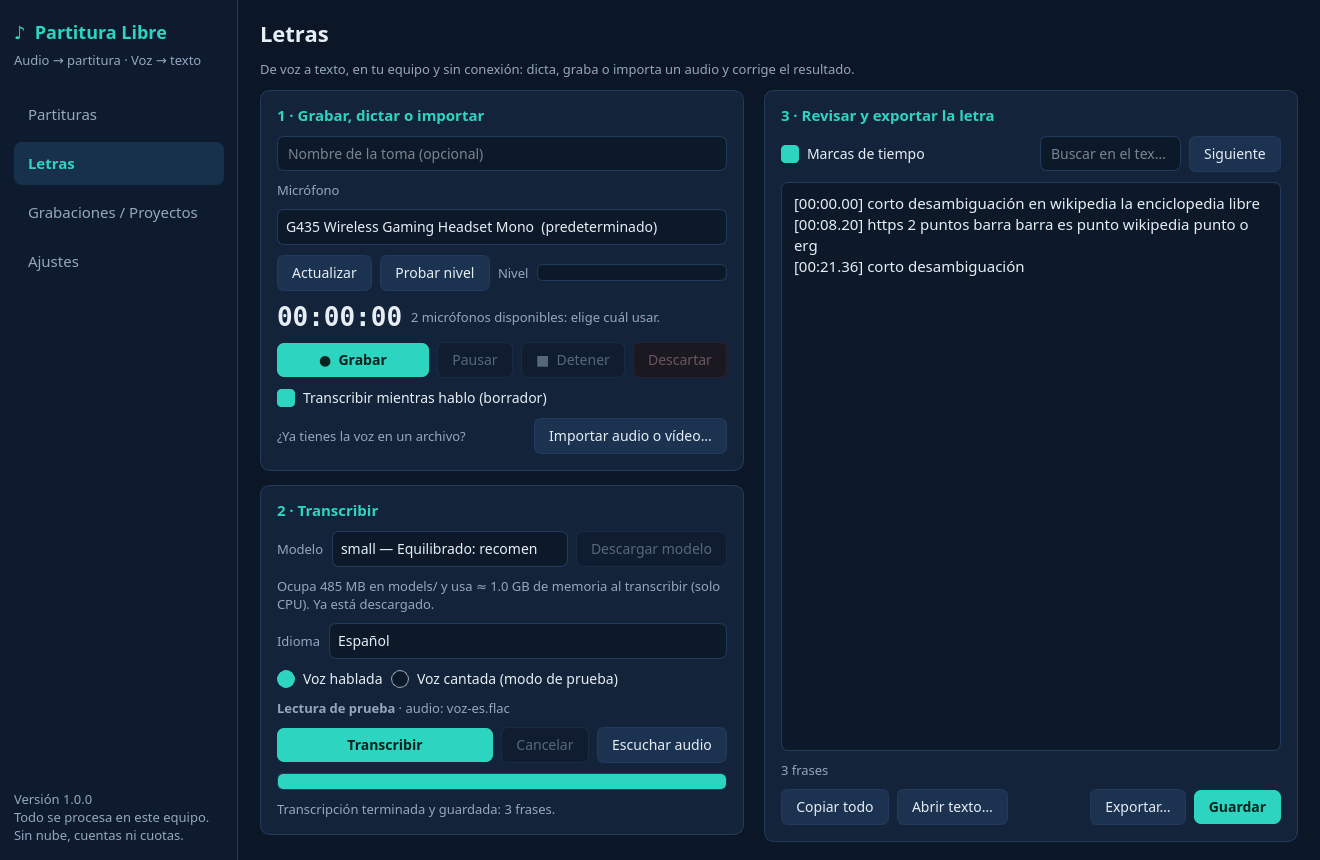
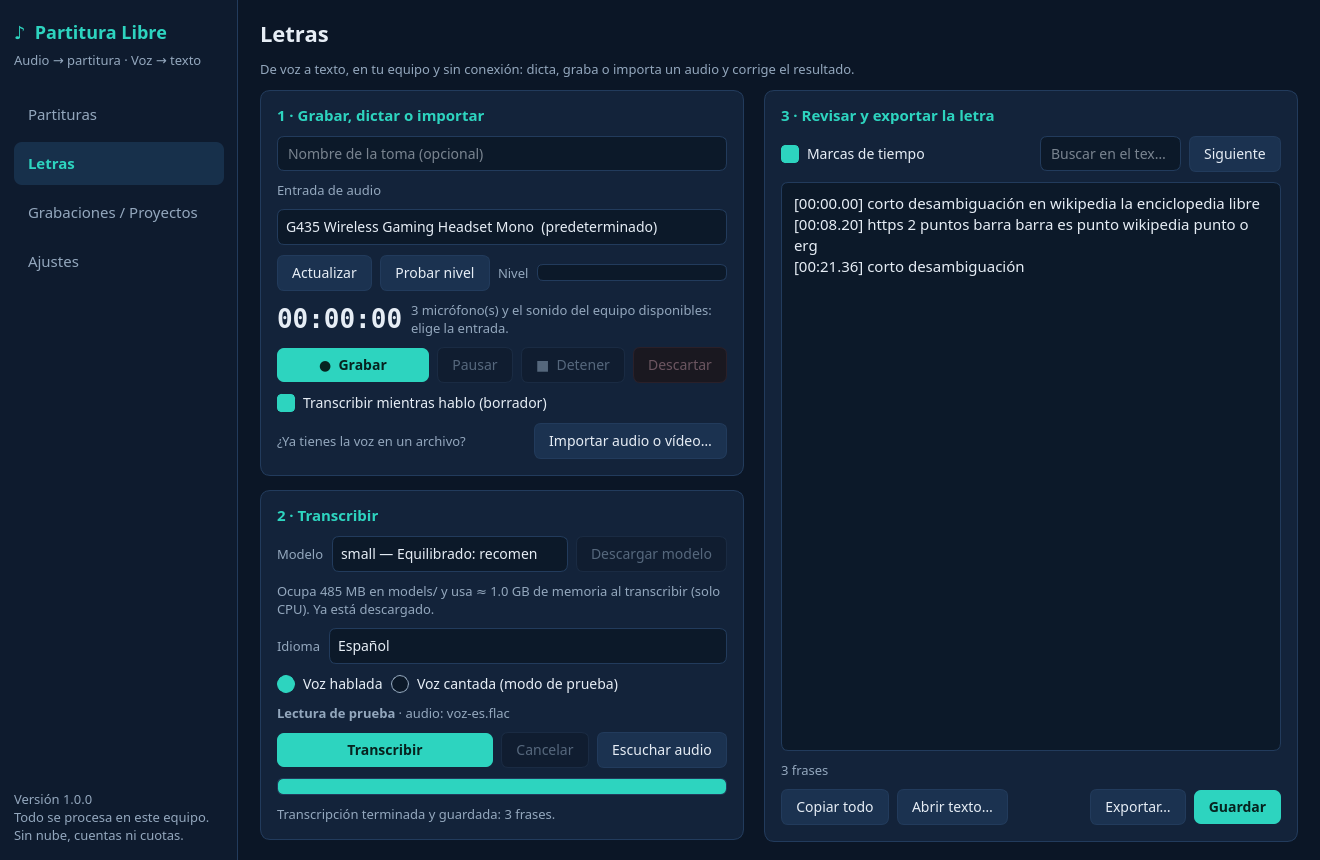
Captura directa del sonido del equipo y transcripción vacía explicada
Las entradas «Sonido del equipo» graban lo que suena por una salida (música de
otra aplicación) sin pasar por altavoces y micrófono. Aviso de nivel muy bajo,
diálogo con pasos cuando no se reconoce texto y modo cantado que muestra lo
dudoso sin mostrar el relleno inventado por el modelo.

diff --git a/app/partitura_libre/audio.py b/app/partitura_libre/audio.py
@@ -35,24 +35,36 @@ def sd():
             f"Mientras tanto puedes importar archivos de audio. Detalle: {e}") from e
 
 
+SISTEMA = "Sonido del equipo · "   # prefijo de las entradas que graban lo que suena por una salida
+
+
 def fuentes_del_servidor():
-    """Micrófonos que publica el servidor de sonido de Linux (PipeWire o PulseAudio), con el nombre
-    que ve el usuario: [{'nombre', 'fuente', 'predeterminado'}]. Vacío si no hay servidor o en Windows.
-    Solo consulta con `pactl`, que ya forma parte del sistema; no cambia nada en él."""
+    """Entradas que publica el servidor de sonido de Linux (PipeWire o PulseAudio), con el nombre que ve
+    el usuario: [{'nombre', 'fuente', 'predeterminado', 'sistema'}], los micrófonos primero. Las de
+    `sistema` graban directamente lo que suena por una salida (música de otra aplicación, un vídeo…).
+    Vacío si no hay servidor o en Windows. Solo consulta con `pactl`, que ya es parte del sistema."""
     if rutas.WINDOWS or not shutil.which("pactl"):
         return []
     try:
         entorno = {**os.environ, "LC_ALL": "C.UTF-8"}
         texto = subprocess.run(["pactl", "list", "sources"], capture_output=True, text=True, timeout=5, env=entorno).stdout
         pred = subprocess.run(["pactl", "get-default-source"], capture_output=True, text=True, timeout=5, env=entorno).stdout.strip()
+        salida = subprocess.run(["pactl", "get-default-sink"], capture_output=True, text=True, timeout=5, env=entorno).stdout.strip()
     except (OSError, subprocess.SubprocessError):
         return []
     fuentes = []
     for bloque in texto.split("\n\n"):
         campos = dict(l.strip().split(": ", 1) for l in bloque.splitlines() if ": " in l and l.startswith("\t") and not l.startswith("\t\t"))
-        if campos.get("Name") and campos.get("Monitor of Sink", "n/a") == "n/a":  # los «monitor» no son micrófonos
-            fuentes.append({"nombre": campos.get("Description") or campos["Name"], "fuente": campos["Name"],
-                            "predeterminado": campos["Name"] == pred})
+        if not campos.get("Name"):
+            continue
+        de_salida = campos.get("Monitor of Sink", "n/a")
+        nombre = campos.get("Description") or campos["Name"]
+        if de_salida == "n/a":
+            fuentes.append({"nombre": nombre, "fuente": campos["Name"], "predeterminado": campos["Name"] == pred, "sistema": False})
+        else:
+            fuentes.append({"nombre": SISTEMA + nombre.removeprefix("Monitor of ") + (" (salida en uso)" if de_salida == salida else ""),
+                            "fuente": campos["Name"], "predeterminado": False, "sistema": True, "_orden": de_salida != salida})
+    fuentes.sort(key=lambda f: (f["sistema"], f.pop("_orden", False)))
     return fuentes
 
 
@@ -67,10 +79,10 @@ def microfonos(refrescar=False):
     fuentes = fuentes_del_servidor() if puente is not None else []
     if fuentes:
         sr = int(s.query_devices(puente)["default_samplerate"])
-        return sorted(({"indice": puente, "sr": sr, **f} for f in fuentes), key=lambda d: not d["predeterminado"])
+        return sorted(({"indice": puente, "sr": sr, **f} for f in fuentes), key=lambda d: (d["sistema"], not d["predeterminado"]))
     pred = s.default.device[0]
     api = s.query_devices(pred)["hostapi"] if pred is not None and pred >= 0 else 0
-    lista = [{"indice": i, "nombre": d["name"], "sr": int(d["default_samplerate"]), "predeterminado": i == pred, "fuente": None}
+    lista = [{"indice": i, "nombre": d["name"], "sr": int(d["default_samplerate"]), "predeterminado": i == pred, "fuente": None, "sistema": False}
              for i, d in enumerate(s.query_devices()) if d["max_input_channels"] > 0 and d["hostapi"] == api]
     return sorted(lista, key=lambda d: not d["predeterminado"])
 
@@ -150,6 +162,11 @@ class Grabadora:
         if self.error:
             a.append(self.error)
         return a
+
+    @property
+    def floja(self):
+        """Señal muy débil: suficiente para oír algo, mala para reconocer palabras o notas."""
+        return self.frames > self.sr and 0.001 <= self.pico < 0.1
 
     @property
     def muda(self):

diff --git a/app/partitura_libre/ui/captura.py b/app/partitura_libre/ui/captura.py
@@ -43,7 +43,7 @@ class PanelCaptura(QWidget):
         v = QVBoxLayout(self)
         v.setContentsMargins(0, 0, 0, 0)
         v.setSpacing(10)
-        v.addWidget(tema.etiqueta("Micrófono", "tenue"))
+        v.addWidget(tema.etiqueta("Entrada de audio", "tenue"))
         v.addWidget(self.micro)
         v.addLayout(tema.fila(self.b_actualizar, self.b_probar, tema.etiqueta("Nivel", "tenue", False), self.nivel, estirar=self.nivel))
         v.addLayout(tema.fila(self.reloj, self.texto, estirar=self.texto))
@@ -93,7 +93,9 @@ class PanelCaptura(QWidget):
         else:
             guardado = self.micro.findText(config.cargar()["microfono"], Qt.MatchStartsWith) if config.cargar()["microfono"] else -1
             self.micro.setCurrentIndex(max(guardado, 0))
-            self._decir("Listo para grabar." if len(micros) == 1 else f"{len(micros)} micrófonos disponibles: elige cuál usar.")
+            n = sum(not m["sistema"] for m in micros)
+            self._decir("Listo para grabar." if len(micros) == 1 else f"{n} micrófono(s)"
+                        + (" y el sonido del equipo" if n < len(micros) else "") + " disponibles: elige la entrada.")
         self._botones()
 
     def _micro(self):
@@ -189,6 +191,12 @@ class PanelCaptura(QWidget):
             tema.dialogo(self, "La toma está en silencio", "Se ha grabado, pero el micrófono no envió ninguna señal.\n\n"
                          "Comprueba que no esté silenciado o apagado y que has elegido la entrada correcta; usa «Probar nivel» "
                          "y mira si la barra se mueve al hablar. En el control de sonido del sistema, sube el volumen de entrada.", tipo="aviso")
+        elif g.floja:
+            self._decir(f"Toma guardada, pero con un nivel muy bajo (pico del {g.pico * 100:.0f} %).", "aviso")
+            tema.dialogo(self, "Nivel de grabación muy bajo", f"La toma se ha guardado, pero el sonido llegó muy flojo (pico del {g.pico * 100:.0f} %) "
+                         "y el reconocimiento puede fallar o salir vacío.\n\n• Acerca el micrófono a la fuente o sube el volumen de entrada del sistema.\n"
+                         "• Si lo que quieres transcribir suena en este equipo (Spotify, un vídeo…), no lo grabes con el micrófono: elige en "
+                         "«Entrada de audio» una opción «Sonido del equipo» y se capturará directamente, sin ruido ambiente.", tipo="aviso")
         else:
             self._decir(f"Toma guardada ({g.segundos:.1f} s) en {carpeta.name}.")
         self.terminada.emit(carpeta)

diff --git a/app/partitura_libre/ui/letras.py b/app/partitura_libre/ui/letras.py
@@ -64,7 +64,8 @@ class PaginaLetras(QWidget):
         self.hablada.setChecked(True)
         self.e_cantada = tema.etiqueta(
             "Voz cantada: la música, los coros y los instrumentos confunden al modelo. Los versos poco fiables se "
-            "marcan con ⚠ para que los revises; no hay separación de voz e instrumentos. Mejor con voz sola.", "aviso")
+            "marcan con ⚠ para que los revises; no hay separación de voz e instrumentos. Mejor con voz sola. Si la canción suena "
+            "en este equipo, elige «Sonido del equipo» como entrada en vez del micrófono.", "aviso")
         self.e_toma = tema.etiqueta("Ninguna toma abierta.", "tenue")
         self.b_transcribir = tema.boton("Transcribir", self.transcribir, "primario")
         self.b_cancelar = tema.boton("Cancelar", self.cancelar)
@@ -309,6 +310,13 @@ class PaginaLetras(QWidget):
             self._poner(self._nuevos)
             if not self._nuevos:
                 self.e_estado.setText("No se reconoció ninguna palabra en el audio. No se ha inventado texto.")
+                tema.reclasificar(self.e_estado, "aviso")
+                tema.dialogo(self, "No se reconoció ninguna palabra", "El motor no encontró voz inteligible en esta toma y no se ha inventado texto.\n\n"
+                             "• Si es una canción, marca «Voz cantada (modo de prueba)» y vuelve a pulsar «Transcribir».\n"
+                             "• Si el sonido venía de este equipo (Spotify, un vídeo…), grábalo eligiendo «Sonido del equipo» en "
+                             "«Entrada de audio»: por el micrófono llega flojo y con ruido.\n"
+                             "• Comprueba el idioma elegido y, si puedes, usa un modelo más preciso (medium).\n\n"
+                             "El audio original se conserva: usa «Escuchar audio» para comprobar cómo quedó.", tipo="aviso")
             else:
                 self._guardar_en(self._carpeta_final, nueva=True)
                 dud = sum(s["dudoso"] for s in self._nuevos)

diff --git a/app/partitura_libre/workers/voz.py b/app/partitura_libre/workers/voz.py
@@ -21,13 +21,15 @@ def main():
         o = json.loads(linea)
         try:
             cantada, desfase = o.get("cantada", False), o.get("desfase", 0.0)
-            # Voz cantada: sin filtro de silencios (la música lo confunde) y sin arrastrar
-            # el texto anterior, para que no «rellene» versos que no se entienden.
+            # Voz cantada: sin filtro de silencios (la música lo confunde), sin arrastrar el texto
+            # anterior (para que no «rellene» versos) y sin descartar de antemano los tramos que el
+            # modelo cree sin voz: se muestran marcados como dudosos, salvo los que son puro relleno.
             segs, info = modelo.transcribe(o["audio"], language=o.get("idioma") or None, beam_size=5,
-                                           vad_filter=not cantada, condition_on_previous_text=not cantada)
+                                           vad_filter=not cantada, condition_on_previous_text=not cantada,
+                                           **({"no_speech_threshold": None} if cantada else {}))
             emitir("idioma", id=o["id"], idioma=info.language, prob=round(info.language_probability, 3), dur=info.duration)
             for s in segs:
-                if s.text.strip():
+                if s.text.strip() and not (cantada and letras.es_relleno(s.text, s.avg_logprob)):
                     emitir("segmento", id=o["id"], inicio=round(s.start + desfase, 2), fin=round(s.end + desfase, 2),
                            texto=s.text.strip(), v=round(min(1.0, s.end / max(info.duration, 0.01)), 3),
                            dudoso=cantada and s.avg_logprob < -0.5 or letras.es_dudoso(s.avg_logprob, s.no_speech_prob, s.compression_ratio))

diff --git a/tests/test_exportar.py b/tests/test_exportar.py
@@ -67,6 +67,13 @@ class TextoEditable(unittest.TestCase):
         self.assertIsNone(segs[3]["inicio"])
         self.assertEqual(len(exportar.con_tiempos(segs)), 3)
 
+    def test_relleno_inventado_no_se_muestra_pero_un_verso_dudoso_si(self):
+        # Salidas reales del modelo ante música floja grabada por micrófono:
+        for texto, logprob in (("y", -2.01), ("¡Suscríbete!", -0.99), ("¡Suscríbete y dale like a este vídeo!", -1.38), ("Música", -1.44)):
+            self.assertTrue(letras.es_relleno(texto, logprob), texto)
+        self.assertFalse(letras.es_relleno("Y empezamos a tocar", -0.70))   # se muestra, marcado con ⚠
+        self.assertTrue(letras.es_dudoso(-0.70, 0.82, 1.2))
+
     def test_criterio_de_duda(self):
         self.assertFalse(letras.es_dudoso(-0.2, 0.05, 1.4))
         self.assertTrue(letras.es_dudoso(-1.3, 0.05, 1.4))   # el modelo no está seguro

diff --git a/app/partitura_libre/letras.py b/app/partitura_libre/letras.py
@@ -87,6 +87,16 @@ def de_texto(texto, previos=()):
     return exportar.completar_tiempos(segs)
 
 
+MULETILLAS = ("suscríbete", "subtítulos", "gracias por ver", "amara.org", "thanks for watching", "subscribe")
+
+
+def es_relleno(texto, logprob):
+    """Texto que el modelo inventa cuando no entiende nada (modo voz cantada): casi sin probabilidad,
+    una sola sílaba, o las coletillas de vídeos con las que fue entrenado. Eso no se muestra."""
+    t = texto.strip().lower()
+    return logprob < -1.2 or len(t.strip(" .,¡!¿?…")) < 3 or any(m in t for m in MULETILLAS)
+
+
 def es_dudoso(logprob, sin_voz, compresion):
     """Criterio para pedir revisión humana de un segmento."""
     return logprob < -0.8 or sin_voz > 0.5 or compresion > 2.4

diff --git a/tests/test_audio.py b/tests/test_audio.py
@@ -180,7 +180,7 @@ class Dispositivos(unittest.TestCase):
         except audio.ErrorAudio as e:
             self.skipTest(f"sin sistema de audio: {e}")
         for m in micros:
-            self.assertEqual(set(m), {"indice", "nombre", "sr", "predeterminado", "fuente"})
+            self.assertEqual(set(m), {"indice", "nombre", "sr", "predeterminado", "fuente", "sistema"})
         self.assertLessEqual(sum(m["predeterminado"] for m in micros), 1)
 
 

diff --git a/docs/INFORME-PRUEBAS.md b/docs/INFORME-PRUEBAS.md
@@ -6,7 +6,7 @@ Equipo de pruebas: Debian 13 (trixie) x86_64 real, sesión Wayland con PipeWire,
 
 Cada prueba se clasifica como **superada**, **fallida** o **no ejecutable aquí**.
 
-## 1. Pruebas automatizadas — superadas (66 de 66, ninguna omitida)
+## 1. Pruebas automatizadas — superadas (67 de 67, ninguna omitida)
 
 Se ejecutan con `./herramientas/probar.sh`, siempre con el Python del paquete. Usan los motores reales, no simulacros.
 
@@ -16,7 +16,7 @@ Se ejecutan con `./herramientas/probar.sh`, siempre con el Python del paquete. U
 | `test_audio` | 11 | Señal sintética guardada idéntica muestra a muestra; pausa; cola saturada y desbordamiento notificados y toma marcada incompleta; disco lleno conserva lo grabado; WAV válido antes de cerrarse; cancelar borra; segmentos en vivo contiguos; **sesión simulada de 40 min** sin pérdidas |
 | `test_partitura_flujo` | 12 | **Pentagrama:** posición de las notas en clave de Sol, Fa y Do (3.ª y 4.ª), figuras, acordes; la clave elegida y los nombres Do-Re-Mi llegan al MusicXML. Además: WAV sintético (escala de Do) → notas exactas → MIDI → MusicXML; corrección manual crea versión nueva sin tocar la anterior; nota que cruza trozos no se parte; silencio no inventa notas; archivo ilegible da error explicado; cancelación sin restos |
 | `test_letras_flujo` | 6 | Audio libre en español: idioma detectado, palabras esperadas, tiempos crecientes, exportación y reimportación; idioma manual; error sin tumbar el motor; el modo «voz cantada» no da por bueno texto en música sin voz |
-| `test_exportar` | 9 | SRT, VTT y LRC exactos; ida y vuelta; texto editado conserva tiempos; una línea nueva no recibe un tiempo inventado |
+| `test_exportar` | 10 | SRT, VTT y LRC exactos; ida y vuelta; texto editado conserva tiempos; una línea nueva no recibe un tiempo inventado |
 | `test_rutas_proyectos` | 10 | Nombres con tildes y caracteres prohibidos; nombres únicos; audio asociado a resultados; toma interrumpida marcada y conservada; solo se borran proyectos |
 | `test_limpieza` | 4 | La desinstalación borra la carpeta del programa y nada más; se niega ante cualquier otra carpeta |
 | `test_ui` | 7 | La ventana real sin pantalla: navegación, botones bloqueados según el estado, partitura y letra de principio a fin, **partitura en vivo** (una melodía conocida entra por el callback de audio y sus notas aparecen antes de detener; al detener se crea la definitiva), error explicado, cancelación, diagnóstico |
@@ -57,6 +57,16 @@ Descarga de 195 MB con sha256, extracción en `runtime/musescore` y exportación
 
 Revisado a la vista en las cuatro claves con una escala, figuras de redonda a semicorchea, un sostenido y un acorde; y dentro de la app con una melodía conocida (Mi Mi Fa Sol Sol Fa Mi Re Do…). Un MusicXML generado en clave de Do en 3.ª con nombres se renderizó en MuseScore con la clave y los nombres correctos.
 
+### Letra de música grabada por micrófono (caso real del usuario) — fallida por la señal, no por el programa
+
+Una toma de 54 s de música de Spotify captada por los altavoces con un micrófono (pico del 5 %, media de −44 dB) no produjo texto. Analizada a mano: el motor responde cosas distintas en cada intento («Música», «¡Suscríbete!», versos que cambian), es decir, no hay letra recuperable y lo que sale es inventado. Cambios a raíz de esto:
+
+- nueva entrada **«Sonido del equipo»** (Linux) que graba directamente lo que suena por una salida; verificado que el flujo queda conectado a la salida elegida. **No ejecutable aquí:** grabar con ella una canción real y medir la calidad de la letra (habría que reproducir música en tu equipo);
+- aviso de **nivel muy bajo** al terminar una toma, y diálogo con pasos concretos cuando la transcripción sale vacía;
+- el modo «voz cantada» ya no descarta de antemano los tramos que el modelo cree sin voz (los muestra con ⚠), pero sí el relleno inventado.
+
+Sigue sin probarse la letra de una canción con instrumentos captada con buena señal; Whisper no está hecho para canto con música y puede fallar aunque el audio sea limpio.
+
 ## 7. Comparación de modelos de voz — superada
 
 Mismo audio (25 s en español + 11 s en inglés), CPU, incluida la carga del modelo:
@@ -89,7 +99,7 @@ No hay Windows en este entorno. **No se declara validado.** Como aproximación s
 - **Debian sin `libportaudio2` o sin `libxcb-cursor0`:** este equipo los tiene; el mensaje de PortAudio ausente no se ha visto en un sistema real.
 - **Sesión larga en tiempo real** (horas con un micrófono): solo la simulada de 40 min.
 - **Dictado y partitura en vivo con un micrófono con señal:** el camino completo está probado con una melodía sintética que entra por el mismo callback, no con sonido real.
-- **Transcripción de una canción real con instrumentos:** sin audio libre adecuado; el modo cantado se probó con voz hablada y con música sin voz.
+- **Transcripción de una canción real con instrumentos y buena señal:** ver el caso real más arriba.
 
 ## 10. Fallidas
 

diff --git a/README.md b/README.md
@@ -69,10 +69,11 @@ Opcionales, solo cuando pulsas el botón correspondiente:
 ### Letras
 
 1. **Elige un modelo** y pulsa *Descargar modelo* (una sola vez). `small` es el recomendado para español; `tiny` y `base` son más rápidos y fallan más; `medium` y `large-v3` son más precisos y lentos.
-2. **Graba, dicta o importa** audio o vídeo (WAV, MP3, FLAC, OGG, M4A, MP4, MKV…). Con *Transcribir mientras hablo* aparece un borrador cada pocos segundos; al detener, la toma completa se transcribe de nuevo con más precisión.
-3. **Idioma:** español, detección automática u otro de la lista.
-4. **Voz hablada o voz cantada (modo de prueba).** Con canto, la música y los coros confunden al modelo: los versos poco fiables se marcan con **⚠** para que los escuches y corrijas. El programa no inventa texto donde no entiende.
-5. **Revisa y exporta.** El texto es editable (una línea por frase, marcas `[mm:ss.cc]` opcionales), se puede buscar y copiar, y se exporta a **TXT, SRT, VTT o LRC**.
+2. **Elige la entrada de audio.** Además de los micrófonos, en Linux aparecen entradas **«Sonido del equipo · …»**, que graban directamente lo que suena por una salida (Spotify, un vídeo, una videollamada). Para transcribir algo que suena en el ordenador usa siempre esa opción —la marcada «salida en uso»— y no el micrófono: por los altavoces llega flojo y con ruido, y el reconocimiento sale vacío.
+3. **Graba, dicta o importa** audio o vídeo (WAV, MP3, FLAC, OGG, M4A, MP4, MKV…). Con *Transcribir mientras hablo* aparece un borrador cada pocos segundos; al detener, la toma completa se transcribe de nuevo con más precisión.
+4. **Idioma:** español, detección automática u otro de la lista.
+5. **Voz hablada o voz cantada (modo de prueba).** Con canto, la música y los coros confunden al modelo: los versos poco fiables se marcan con **⚠** para que los escuches y corrijas. El programa no inventa texto donde no entiende.
+6. **Revisa y exporta.** El texto es editable (una línea por frase, marcas `[mm:ss.cc]` opcionales), se puede buscar y copiar, y se exporta a **TXT, SRT, VTT o LRC**.
 
 ### Grabaciones / Proyectos
 
@@ -101,6 +102,8 @@ Cada proyecto es una carpeta en `data/proyectos/` (o donde tú elijas).
 | La ventana no se abre en una sesión X11 (Linux) | Qt necesita `libxcb-cursor0` del sistema. En sesiones Wayland (las de Debian 13 y Ubuntu 24.04 por defecto) no hace falta. |
 | «No se pudo abrir el micrófono» | Otro programa lo está usando o no hay permiso. Pulsa *Actualizar* y elige otro. En Windows: Configuración → Privacidad y seguridad → Micrófono. |
 | No aparece mi micrófono | Conéctalo y pulsa *Actualizar*. En Linux se listan los que publica PipeWire/PulseAudio; si no hay servidor de sonido se muestran los dispositivos ALSA. |
+| La transcripción sale vacía | El motor no encontró voz inteligible y no inventa texto. Si era música del propio equipo, grábala con «Sonido del equipo»; si es una canción, marca «Voz cantada»; revisa el idioma y prueba el modelo `medium`. |
+| «Nivel de grabación muy bajo» | Acerca el micrófono o sube la entrada en el control de sonido del sistema. |
 | «La toma está en silencio» | El micrófono está silenciado, apagado o no es la entrada elegida. Usa *Probar nivel*. |
 | «Grabación incompleta» | El equipo iba muy cargado o el disco se llenó. La toma se conserva; el aviso dice cuánto falta. |
 | La transcripción se cierra sola | Falta memoria: usa un modelo más pequeño. Detalle en `logs/motores.log`. |

diff --git a/docs/ARQUITECTURA.md b/docs/ARQUITECTURA.md
@@ -57,7 +57,7 @@ Lo cubre `tests/test_dependencias.py`, incluido el caso de dependencia ausente y
 
 **7. Captura que no pierde audio en silencio.** Callback mínimo → cola acotada → hilo escritor. Si la cola se llena o PortAudio avisa de desbordamiento, se cuenta y la toma queda marcada como incompleta con el motivo. El WAV se escribe con un escritor propio que **corrige la cabecera cada segundo**: tras un cierre brusco el archivo es válido hasta ese punto y el proyecto aparece como «interrumpido». No hay límite de duración; el único tope es el del formato WAV (4 GB ≈ 13 h en mono), que se avisa y cierra bien la toma.
 
-**7 bis. Elección de micrófono por su nombre real.** En Linux, PortAudio solo ve dispositivos ALSA (`default`, `pulse`, `hw:…`) y los `hw:` están ocupados por PipeWire. La lista se obtiene del servidor de sonido (`pactl list sources`, herramienta del propio sistema, solo lectura) y la grabación se abre por el dispositivo `pulse` indicando la fuente elegida con `PULSE_SOURCE`. Sin servidor de sonido, o en Windows, se usa la lista de PortAudio.
+**7 bis. Elección de micrófono por su nombre real.** En Linux, PortAudio solo ve dispositivos ALSA (`default`, `pulse`, `hw:…`) y los `hw:` están ocupados por PipeWire. La lista se obtiene del servidor de sonido (`pactl list sources`, herramienta del propio sistema, solo lectura) y la grabación se abre por el dispositivo `pulse` indicando la fuente elegida con `PULSE_SOURCE`. Sin servidor de sonido, o en Windows, se usa la lista de PortAudio. La misma lista ofrece las salidas como entradas «Sonido del equipo» (sus fuentes *monitor*), para capturar lo que reproduce otra aplicación sin pasar por altavoces y micrófono; en Windows no está disponible porque PortAudio no ofrece esa captura.
 
 **7 ter. Partitura en vivo.** Mientras se graba, la grabadora entrega segmentos de 3 s a un motor de notas persistente (`workers/notas.py`, orden `vivo`); sus notas se integran con la misma regla que el troceado y se dibujan como borrador. Al detener se analiza la toma entera, que es la que se guarda. El borrador no se puede exportar.
 
